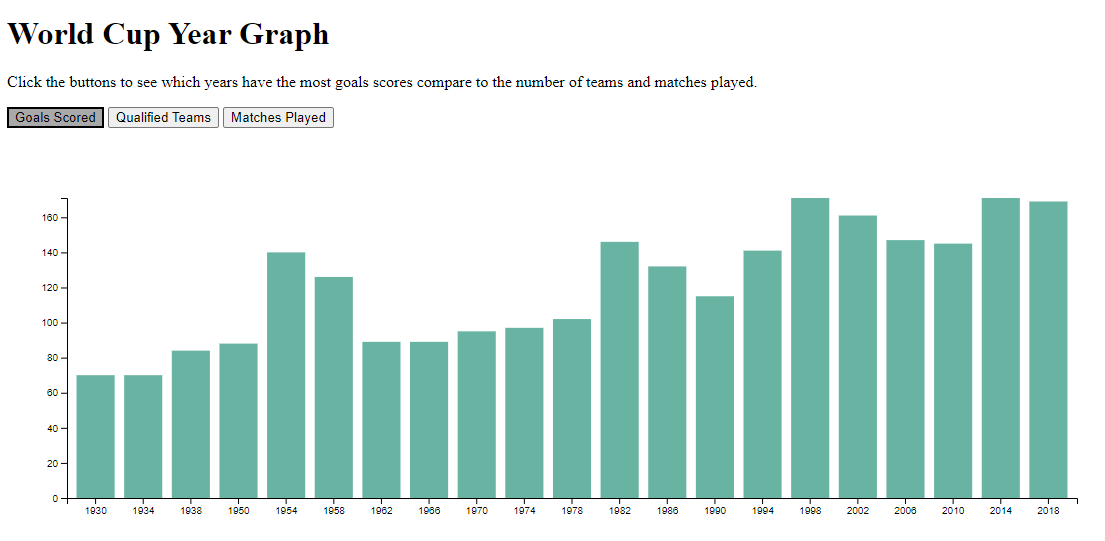
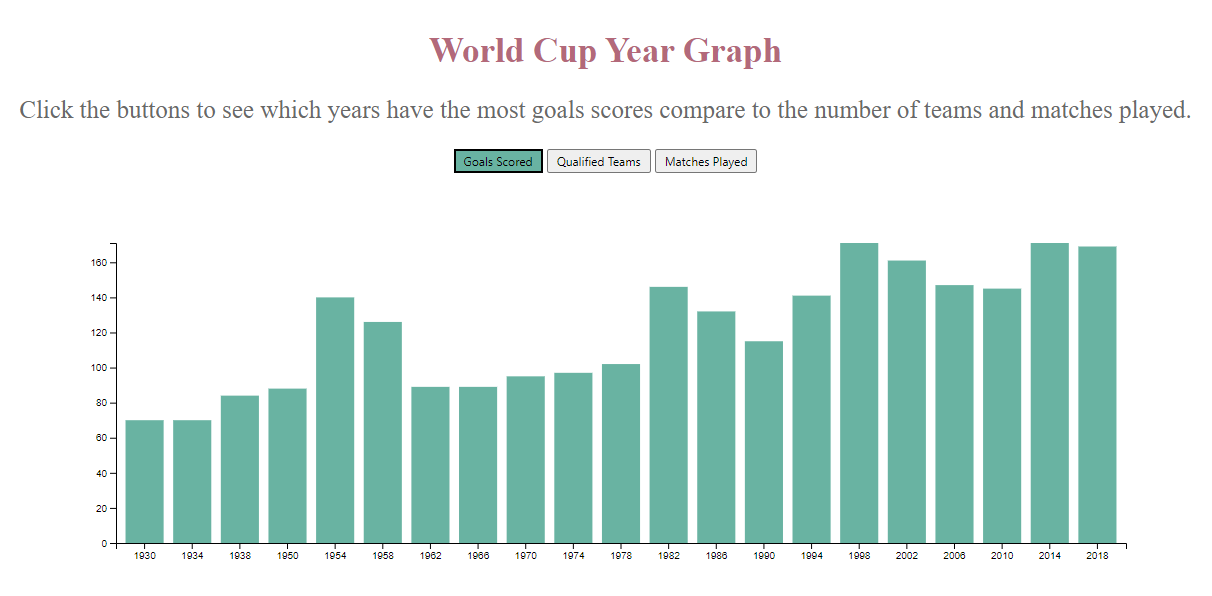
Add files via upload

diff --git a/documentation.html b/documentation.html
@@ -1,46 +1,65 @@
 <DOCTYPE! html>
     <html>
         <head>
+            <title>
+                Documentation Page
+            </title>
             <meta charset="utf-8" />
             <style>
                 .image-border{
                     border: 2px solid dimgray;
                     margin-bottom: 20px;
-                    width: 700px;
+                    margin-left: auto;
+                    margin-right: auto;
+                    width: 1000px;
                     display: block;
+
+                }
+                h1{
+                    font-size: 35px;
+                    color: #b3697a;
                 }
                 p{
+                    font-style: italic;
                     font-size: 25px;
+                    margin-left: 300px;
+                    margin-right: 300px;
+                    color: dimgray;
                 }
                 h2{
                     font-size: 30px;
+                    color:#69b3a2;
                 }
-                nav li a{
+                nav a{
                     font-size: 25px;
+                }
+                div.a {
+                    text-align: center;
+                    font-size: 25px
+                }
+                form {
+                    display: inline;
                 }
             </style>
         </head>
         <body>
-            <nav>
-                <ul>
-                    <li>
-                        <a href="index.html">
-                        Visualization Page
-                        </a>
-                    </li>
-                    <li>
-                        <a href="documentation.html">
-                        Documentation Page
-                        </a>
-                    </li>
-                </ul>
-            </nav>
+
+            <div class="a">
+                
+                
+                <form method="get" action="index.html"><button type="submit">Visualization Page</button></form>
+                <form method="get" action="https://www.kaggle.com/datasets/shilongzhuang/soccer-world-cup-challenge?resource=download&select=world_cups.csv"><button type="submit">Data Source</button></form>
+            
+        
             <section>
+                <h1>
+                    Documentation
+                </h1>
                 <p>
-                    
-I was inspired to find a dataset related to the World Cup because I had been watching the games for 2022 World Cup and wanted to see what visualization I could create using World Cup data. I found the dataset on Kaggle and began exploring ways to display the data. I was able to make the charts displaying the winners of the World Cup since 1930. 
+                    I was inspired to find a dataset related to the World Cup because I had been watching the games for 2022 World Cup and wanted to see what visualization I could create using World Cup data. I found the dataset on Kaggle and began exploring ways to display the data. I was able to make the charts displaying the winners of the World Cup since 1930. 
 
                 </p>
+
                 <h2>
                     Design Process
                 </h2>
@@ -72,6 +91,7 @@ I was inspired to find a dataset related to the World Cup because I had been wat
                 <p>
                     I expected countries to have hosted the World Cup just one time, but to my surprise, there were five countries that hosted the World Cup more than once. It is interesting to see the history of countries in the dataset, for example, I noticed a country named “Germany FR” which appears to be the team playing before the fall of the Berlin Wall. I was conflicted if I should combine “Germany FR” with “Germany”, but I decided to leave it as the dataset had it. I also noticed a correlation between “Goals Scored”, “Qualified Teams”, and “Matches Played”, trending upwards over time.
                 </p>
+                
                 <img class="image-border" src="images/host_country.png">
                 <img class="image-border" src="images/winners.png">
                 <img class="image-border" src="images/goals_scored.png">
@@ -80,17 +100,14 @@ I was inspired to find a dataset related to the World Cup because I had been wat
                     Video Demonstration
                 </h2>
                 
-                <video width="320" height="240" controls>
+                <video width="1000" height="600" controls>
                     <source src="images/movie.mp4" type="video/mp4">
                   Your browser does not support the video tag.
                 </video>
 
-                <a href="https://www.kaggle.com/datasets/shilongzhuang/soccer-world-cup-challenge?resource=download&select=world_cups.csv">
-                    Link to Data Source
-                </a>
             </section>
 
-            
+            </div>
         </body>
     </html>
 

diff --git a/index.html b/index.html
@@ -2,48 +2,72 @@
 <html>
     <head>
         <meta charset="utf-8" />
-
+        <title>
+          Visualization Page
+        </title>
         <!-- Load d3.js -->
         <script src="https://d3js.org/d3.v4.js"></script>
         <style>
             button.selected {
-                background-color: darkgrey;
+                background-color: #69b3a2;
             }
             button {
               font-size: 20px;
+              appearance: button;
+              -moz-appearance: button;
+              -webkit-appearance: button;
+              text-decoration: none; 
+              font: menu; 
+              color: ButtonText;
+              display: inline-block; 
+              padding: 2px 8px;
             }
-            nav li a{
+
+            nav a{
               font-size: 25px;
             }
             p{
                     font-size: 25px;
+                    color:dimgrey;
                 }
             h2{
                     font-size: 30px;
+                    color: #69b3a2;
             
                 }
             h1{
               font-size: 35px;
+              color: #b3697a;
             }
-          
+            div.a {
+              text-align: center;
+            }
+            form {
+              display: inline;
+            }
         </style>
     </head>
     <body>
-
-      <nav>
+      
+      <div class="a">
+      <!-- <nav>
         <ul>
-            <li>
+            
                 <a href="index.html">
                 Visualization Page
                 </a>
-            </li>
-            <li>
+            
+            
                 <a href="documentation.html">
                 Documentation Page
                 </a>
-            </li>
+            
         </ul>
-      </nav>
+      </nav> -->
+      
+        <form method="get" action="documentation.html"><button type="submit">Documentation Page</button></form>
+        <form method="get" action="https://www.kaggle.com/datasets/shilongzhuang/soccer-world-cup-challenge?resource=download&select=world_cups.csv"><button type="submit">Data Source</button></form>
+
         <h1>World Cup Countries Graph</h1>
 
         <!-- Add 2 buttons -->
@@ -66,7 +90,7 @@
         <!-- Create a div where the graph will take place -->
         
         <div id="my_dataviz"></div>
-        
+      
         <h1>World Cup Year Graph</h1>
         <p>
           Click the buttons to see which years have the most goals scores compare to the
@@ -79,9 +103,7 @@
         
         <div id="my_dataviz2"></div>
 
-        <a href="https://www.kaggle.com/datasets/shilongzhuang/soccer-world-cup-challenge?resource=download&select=world_cups.csv">
-          Link to Data Source
-        </a>
+      
         <script>
             function removeSelectedbuttons() {
                 document.querySelectorAll("button" ).forEach(element => {
@@ -142,10 +164,6 @@
               .append("g")
               .attr("transform", "translate(" + margin2.left + "," + margin2.top + ")");
               
-              
-              
-             // svg.append("text")
-              //.text("Hi")
 
             // Initialize the X axis
             var x = d3.scaleBand().range([0, width2]).padding(0.2);
@@ -445,6 +463,7 @@
           update("Host Country");
         
         </script>
+        </div>
     </body>
 </html>
 
